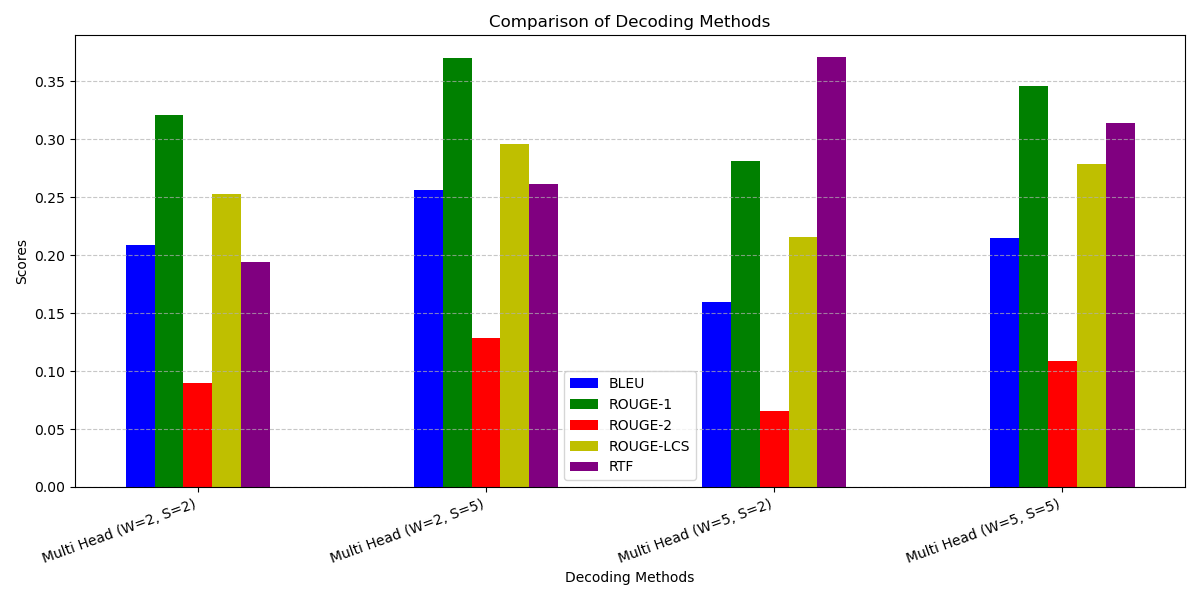
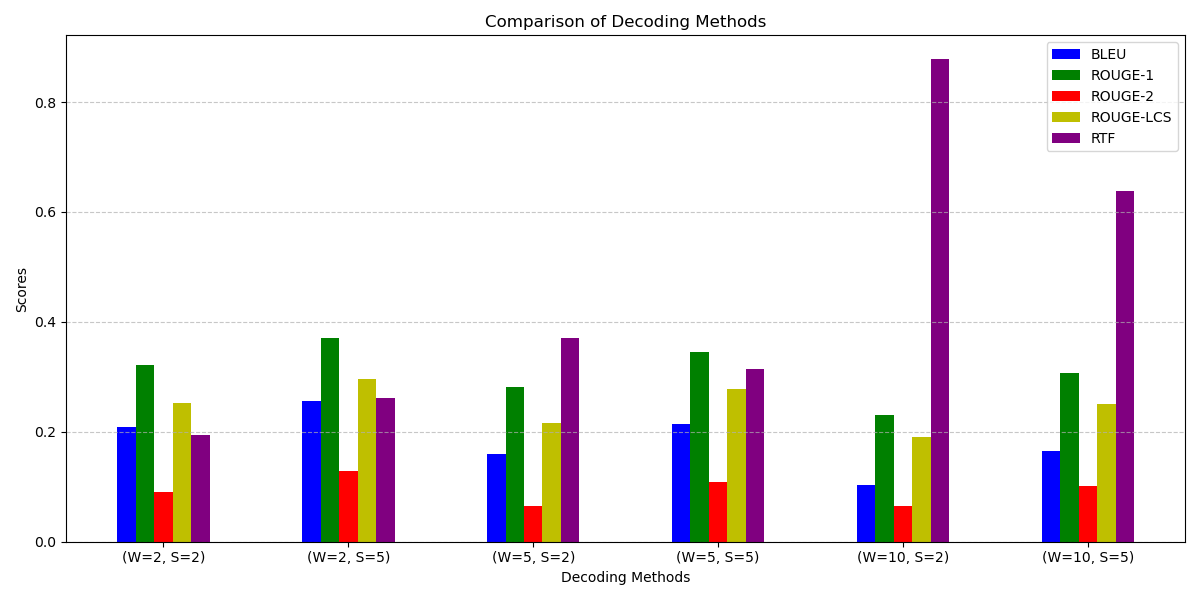
report complete

diff --git a/Assignment-3/report/report.tex b/Assignment-3/report/report.tex
@@ -276,8 +276,8 @@ To assess the effectiveness of speculative decoding, we evaluate BLEU and ROUGE 
         Multi Head (W=2, S=5) & 0.2564 & 0.3700 & 0.1283 & 0.2958 & 0.2615 \\
         Multi Head (W=5, S=2) & 0.1593 & 0.2811 & 0.0652 & 0.2161 & 0.3711 \\
         Multi Head (W=5, S=5) & 0.2150 & 0.3461 & 0.1083 & 0.2783 & 0.3141 \\
-        % Multi Head (W=10, S=2) & 0.3099 & 0.3543 & 0.1296 & 0.2710 \\
-        % Multi Head (W=10, S=5) & 0.3099 & 0.3543 & 0.1296 & 0.2710 \\
+        Multi Head (W=10, S=2) & 0.1041 & 0.2305 & 0.0645 & 0.1912 & 0.8776 \\
+        Multi Head (W=10, S=5) & 0.1655 & 0.3069 & 0.1012 & 0.2499 & 0.6389 \\
         \hline
     \end{tabular}
     \caption{Comparison of Single Head and Multi Head Decoding using BLEU and ROUGE scores}
